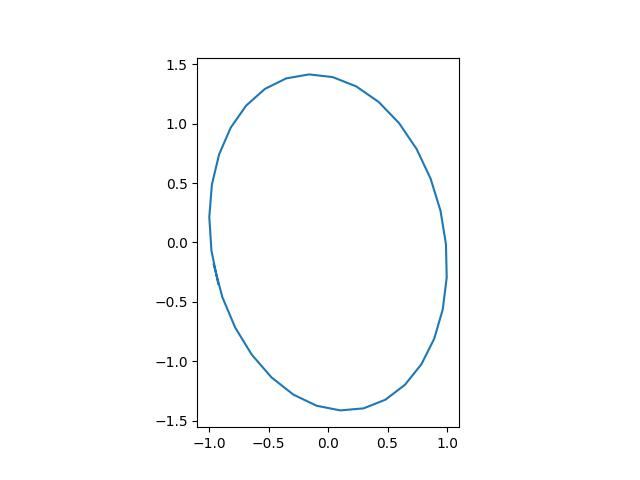
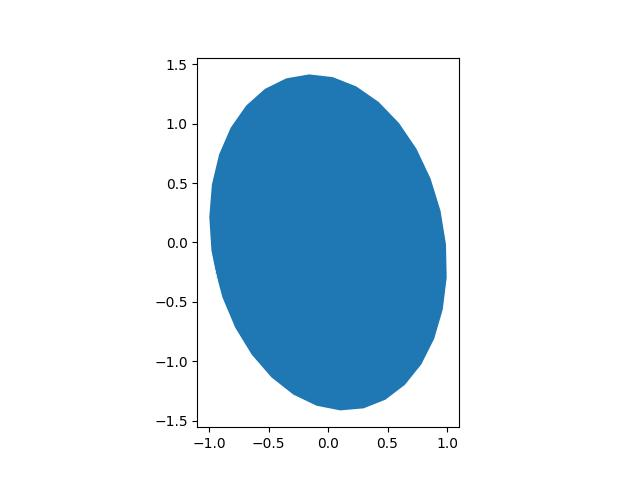
first commit

Changed region(s): [[0.3125, 0.1562, 0.7188, 0.875]]

diff --git a/test2.py b/test2.py
@@ -9,5 +9,6 @@ theta = np.arange(0, np.pi * 2 + 0.2, 0.2)
 c = np.array([np.cos(theta), np.sin(theta)])
 x = p.dot((lmd ** 0.5).dot(c))
 plt.figure().add_subplot().set_aspect('equal')
-plt.plot(x[0,:],x[1,:])
+plt.fill(x[0,:],x[1,:])
+# plt.plot(x[0,:],x[1,:])
 plt.savefig('fig1.jpg')
